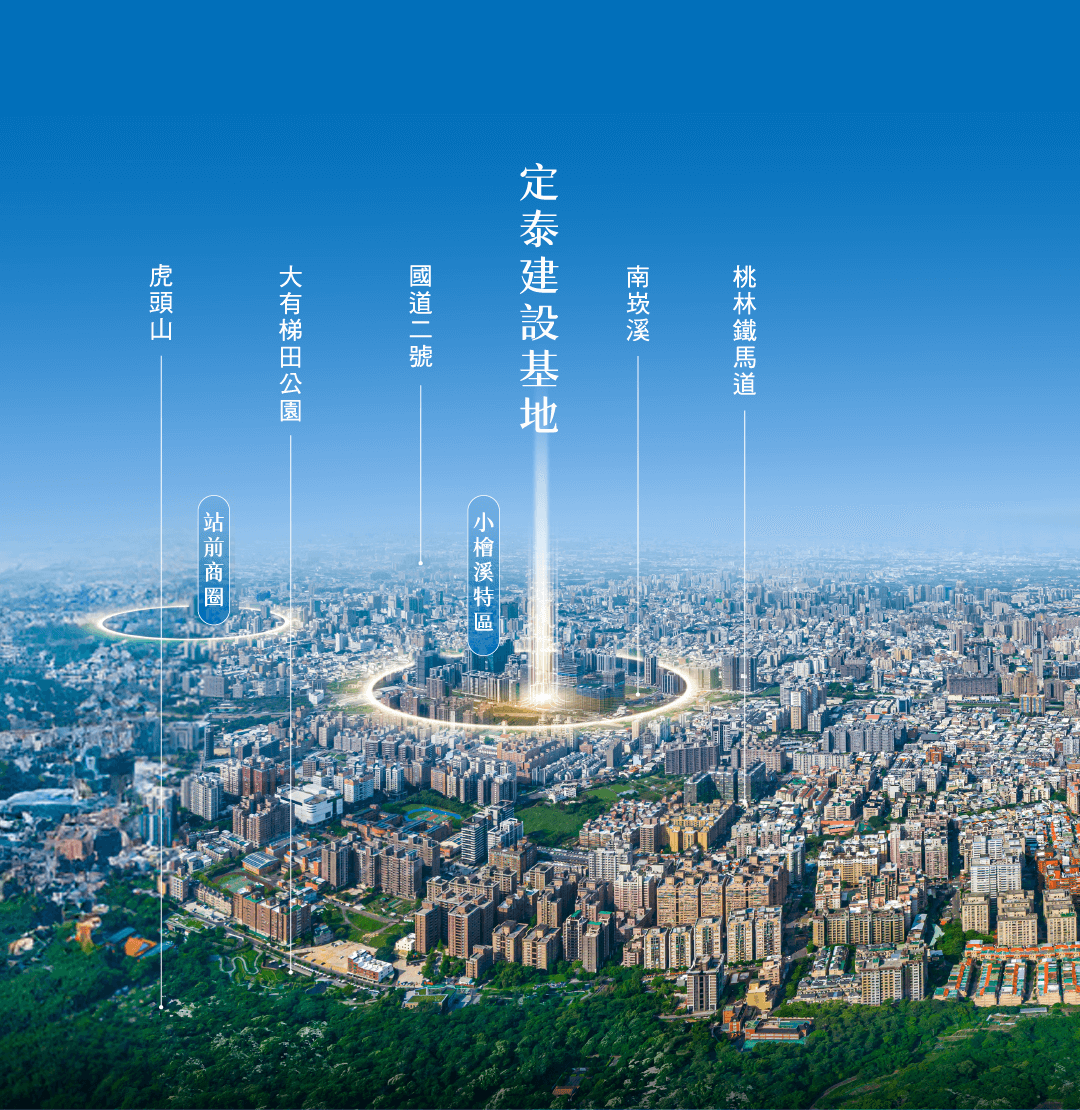
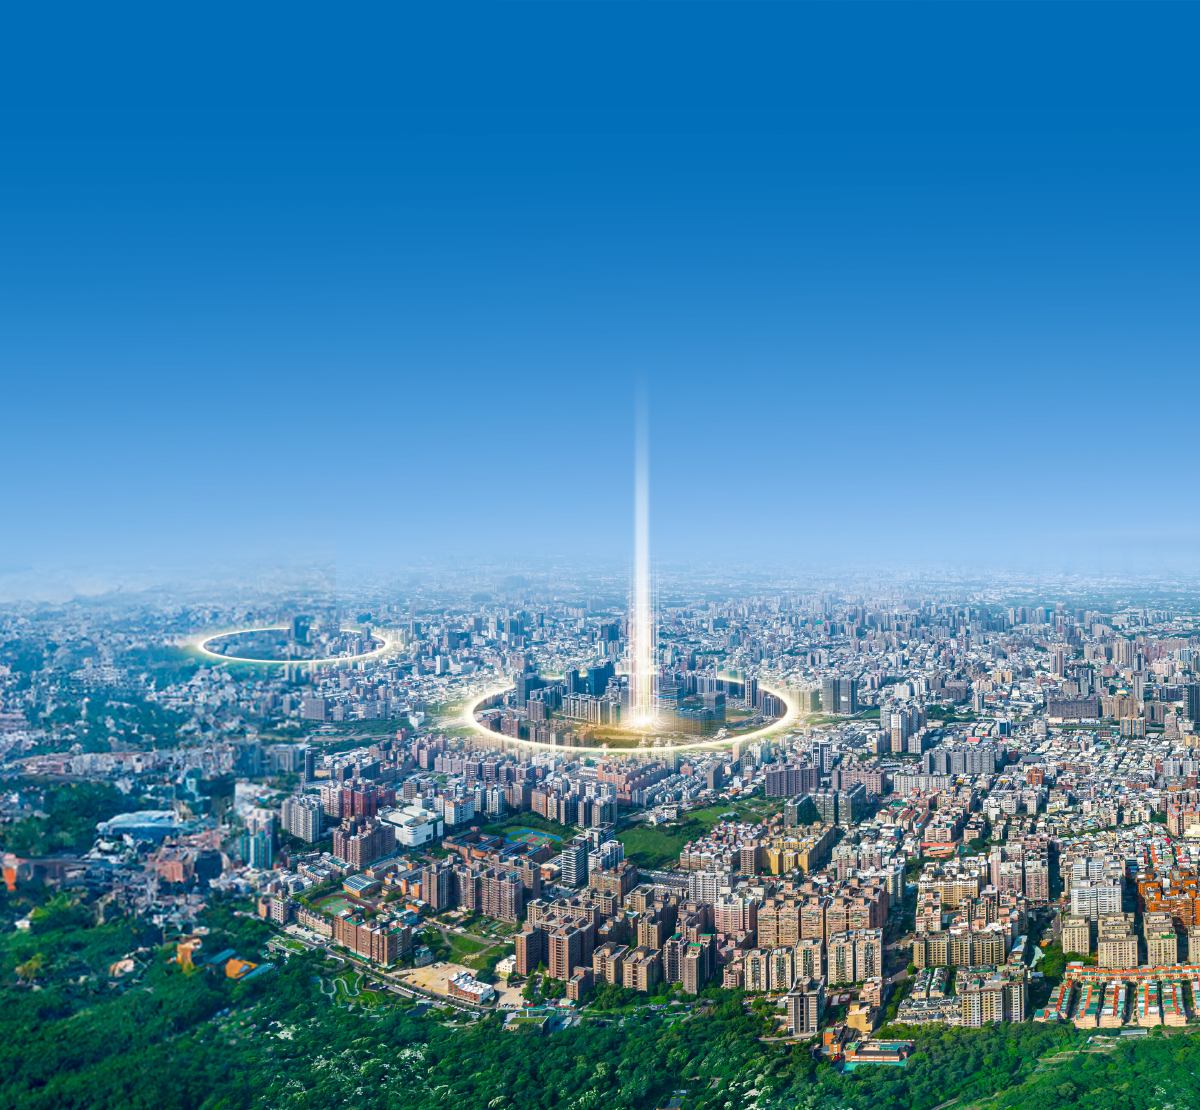
影片修正

diff --git a/index.html b/index.html
@@ -30,7 +30,8 @@
                 <h1>
                     <img src="img/theme1_logo.svg" alt="">
                 </h1>
-                <nav>
+                <!-- 0310修改 選單隱藏 -->
+                <!-- <nav>
                     <ul>
                         <li>
                             <a href="#">
@@ -57,12 +58,16 @@
                             </a>
                         </li>
                     </ul>
-                </nav>
+                </nav> -->
+                <!-- 0310修改 選單隱藏 end -->
             </header>
-            <video class="frame_30s" loop muted autoplay playsinline>
-                <source src="img/fullinone_video.mov" type="video/mp4">
-                    <!-- <source src="img/fullinone_video.webm" width="100%" type="video/webm"> -->
-            </video>
+            <!-- 0310修改 影片位置更改 -->
+            <div class="frame_30s" style="position:relative;">
+                <iframe class="pc" src="https://player.vimeo.com/video/1064261168?autoplay=1&muted=1&loop=1&controls=0&badge=0&autopause=0&player_id=0&app_id=58479" frameborder="0" allow="autoplay; muted; fullscreen; picture-in-picture; clipboard-write; encrypted-media" style="position:absolute;top:0;left:0;width:100%;height:100%;" title="富櫻翫"></iframe>
+                <iframe class="mob" src="https://player.vimeo.com/video/1064590646?autoplay=1&muted=1&loop=1&controls=0&badge=0&autopause=0&player_id=0&app_id=58479" frameborder="0" allow="autoplay; fullscreen; picture-in-picture; clipboard-write; encrypted-media" style="position:absolute;top:0;left:0;width:100%;height:100%;" title="直式-2"></iframe>            
+            </div>                
+            <script src="https://player.vimeo.com/api/player.js"></script>
+            <!-- 0310修改 影片位置更改 end -->
             <div class="contentbox">
                 <div class="title">
                     <img src="img/theme1_title.svg" alt="">
@@ -107,9 +112,6 @@
         </div>
         <div class="section theme theme4" id="section4">
                 <div class="contentbox">
-                    <div class="logo wow fadeInDown" data-wow-duration="2s" data-wow-delay="0.5s">
-                        <img src="img/theme4_logo.svg" alt="">
-                    </div>
                     <div class="title wow fadeInDown" data-wow-duration="2s" data-wow-delay="0.5s">
                         <img src="img/theme4_title.svg" alt="">
                     </div>
@@ -122,13 +124,25 @@
                 </div>
         </div>
         <div class="section theme theme5" id="section5">
-            <div class="bg mob">
+            <!-- <div class="bg mob">
                 <div class="horizontal-inner">
                     <div class="box">
                         <img src="img/theme9_bg_mob.jpg" alt="">
                     </div>
                 </div>
+            </div> -->
+            <!-- 0310新增 -->
+            <div class="bgtxt">
+                <div class="img img_h1 wow fadeInDown"data-wow-duration="2s" data-wow-delay="0.2s">
+                    <img class="pc" src="img/theme5_bgtxt1.png" alt="">
+                    <img class="mob" src="img/theme5_bgtxt1_mob.png" alt="">
+                </div>
+                <div class="img img_h2 wow fadeInDown"data-wow-duration="2s" data-wow-delay="0.5s">
+                    <img class="pc" src="img/theme5_bgtxt2.png" alt="">
+                    <img class="mob" src="img/theme5_bgtxt2_mob.png" alt="">
+                </div>
             </div>
+            <!-- 0310新增 end -->
             <div class="photo_desc">
                 <img src="img/theme5_photo_desc.svg" alt="">
             </div>

diff --git a/scss/style.scss b/scss/style.scss
@@ -44,12 +44,7 @@ section{
 
     // content
     .theme1{
-        &.fp-auto-height.fp-section{
-            height: 100vh !important;
-            // @media (max-width:960px){
-            //     height: auto !important;
-            // }
-        }
+        height: auto;
         position: relative;
         display: flex;
         align-items: center;
@@ -58,9 +53,17 @@ section{
         color: white;
         font-size: 2rem;
         overflow: hidden; /* 確保影片不會溢出 */
+        @media (max-width:800px){
+            padding-top: 80px;
+        }
         .frame_30s{
-            @media (max-width:960px){
-                transform: translateX(-35%);
+            height: 0;
+            padding-bottom: 56.25%;
+            @media (max-width:800px){
+                padding-bottom: 175%;
+            }
+            iframe{
+                padding: 0;
             }
         }
         // .video-container {
@@ -104,14 +107,14 @@ section{
             z-index: 100;
             background: url(../img/theme1_header_bg.jpg) center center no-repeat;
             background-size: cover;
-            // @media (max-width:960px){
-            //     position: static;
-            // }
+            @media (max-width:800px){
+                height: 80px;
+            }
             h1{
                 margin-left: calc(56 / 1920 * 100%);
                 width: calc(306 / 1920 * 100%);
                 @media (max-width:960px){
-                    display: none;
+                    width: calc(306 / 1080 * 100%);
                 }
             }
             nav{
@@ -157,7 +160,7 @@ section{
         .contentbox{
             width: calc(840 / 1920 * 100%);
             position: absolute;
-            top: 36%;
+            top: 30%;
             left: 50%;
             transform: translate(-50%, -50%);
             z-index: 2;
@@ -365,7 +368,29 @@ section{
         //         }
         //     }
         // }
+        .bgtxt{
+            position: absolute;
+            z-index: 2;
+            width: 100%;
+            height: 0;
+            padding-bottom: 56.25%;
+            top: 0;
+            right: 0;
+            bottom: 0;
+            left: 0;
+            margin: auto;
+            @media (max-width:960px){
+                padding-bottom: 100%;
+            }
+            .img{
+                position: absolute;
+                top: 0;
+                z-index: 3;
+            }
+            
+        }
         .photo_desc{
+            height: 100vh;
             position: absolute;
             right: 20px;
             bottom: 20px;

diff --git a/css/style.css b/css/style.css
@@ -343,6 +343,7 @@ section .theme {
 }
 
 section .theme1 {
+  height: auto;
   position: relative;
   display: -webkit-box;
   display: -ms-flexbox;
@@ -360,15 +361,25 @@ section .theme1 {
   /* 確保影片不會溢出 */
 }
 
-section .theme1.fp-auto-height.fp-section {
-  height: 100vh !important;
+@media (max-width: 800px) {
+  section .theme1 {
+    padding-top: 80px;
+  }
 }
 
-@media (max-width: 960px) {
+section .theme1 .frame_30s {
+  height: 0;
+  padding-bottom: 56.25%;
+}
+
+@media (max-width: 800px) {
   section .theme1 .frame_30s {
-    -webkit-transform: translateX(-35%);
-            transform: translateX(-35%);
+    padding-bottom: 175%;
   }
+}
+
+section .theme1 .frame_30s iframe {
+  padding: 0;
 }
 
 section .theme1 header {
@@ -390,6 +401,12 @@ section .theme1 header {
   background-size: cover;
 }
 
+@media (max-width: 800px) {
+  section .theme1 header {
+    height: 80px;
+  }
+}
+
 section .theme1 header h1 {
   margin-left: calc(56 / 1920 * 100%);
   width: calc(306 / 1920 * 100%);
@@ -397,7 +414,7 @@ section .theme1 header h1 {
 
 @media (max-width: 960px) {
   section .theme1 header h1 {
-    display: none;
+    width: calc(306 / 1080 * 100%);
   }
 }
 
@@ -466,7 +483,7 @@ section .theme1 header nav ul li + li {
 section .theme1 .contentbox {
   width: calc(840 / 1920 * 100%);
   position: absolute;
-  top: 36%;
+  top: 30%;
   left: 50%;
   -webkit-transform: translate(-50%, -50%);
           transform: translate(-50%, -50%);
@@ -720,7 +737,33 @@ section .theme4 .photo_desc {
   }
 }
 
+section .theme5 .bgtxt {
+  position: absolute;
+  z-index: 2;
+  width: 100%;
+  height: 0;
+  padding-bottom: 56.25%;
+  top: 0;
+  right: 0;
+  bottom: 0;
+  left: 0;
+  margin: auto;
+}
+
+@media (max-width: 960px) {
+  section .theme5 .bgtxt {
+    padding-bottom: 100%;
+  }
+}
+
+section .theme5 .bgtxt .img {
+  position: absolute;
+  top: 0;
+  z-index: 3;
+}
+
 section .theme5 .photo_desc {
+  height: 100vh;
   position: absolute;
   right: 20px;
   bottom: 20px;
